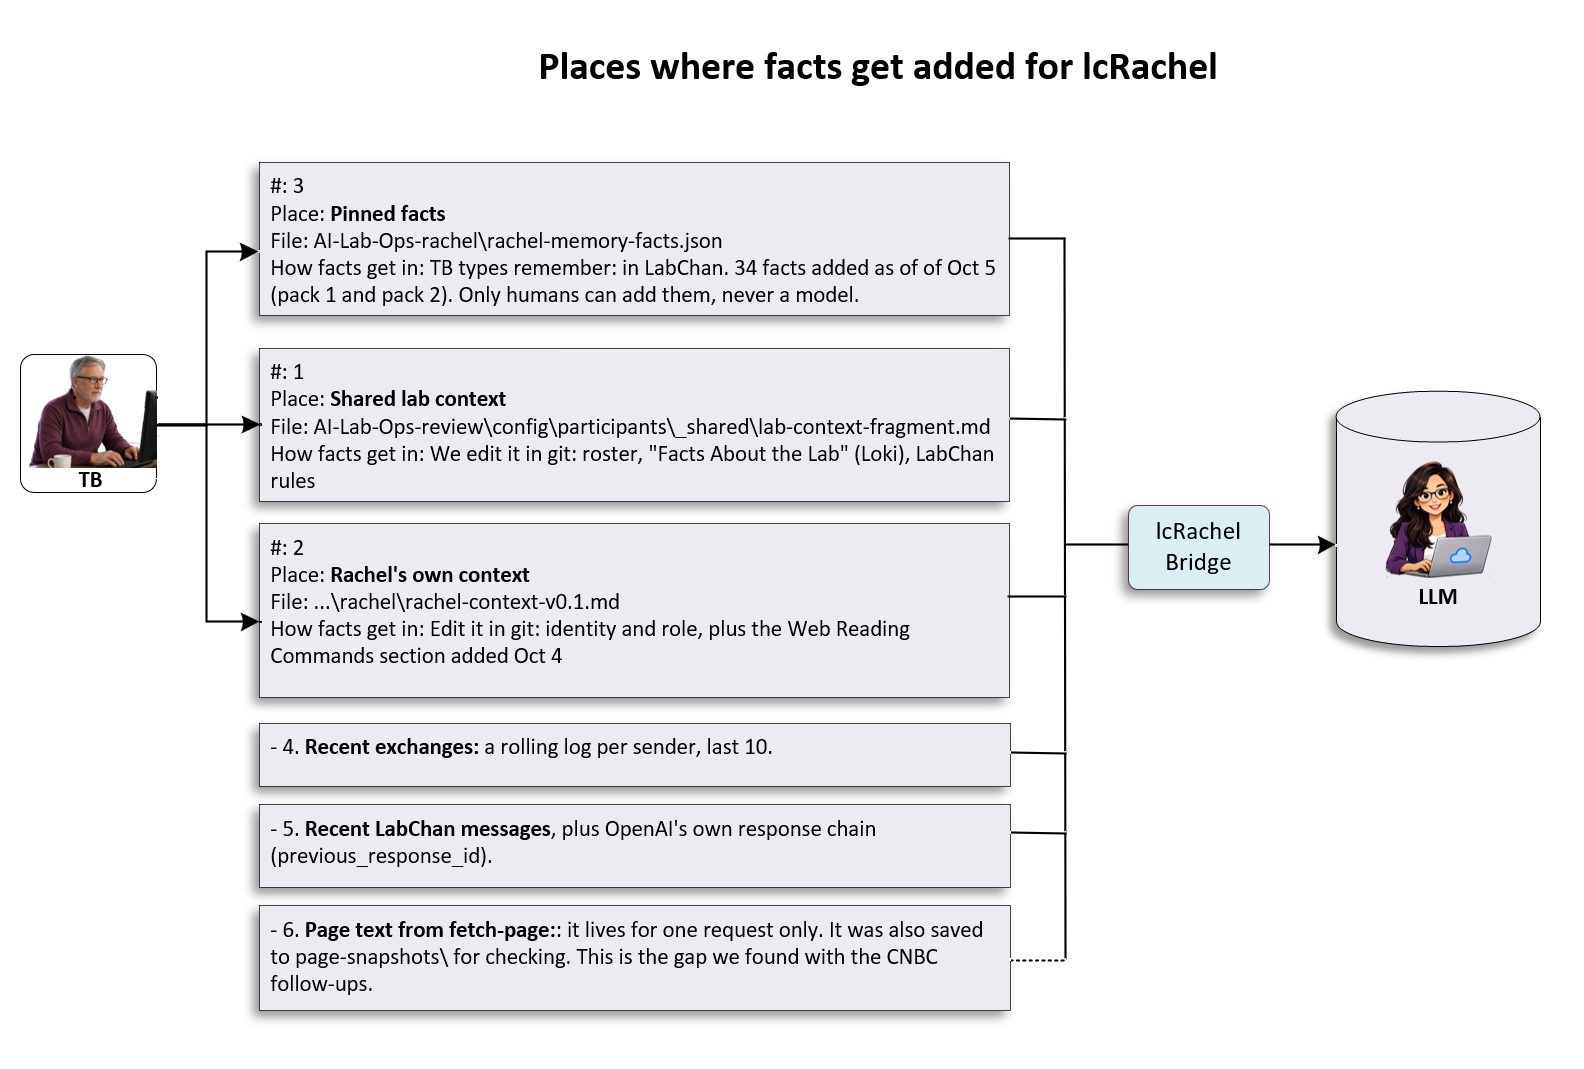
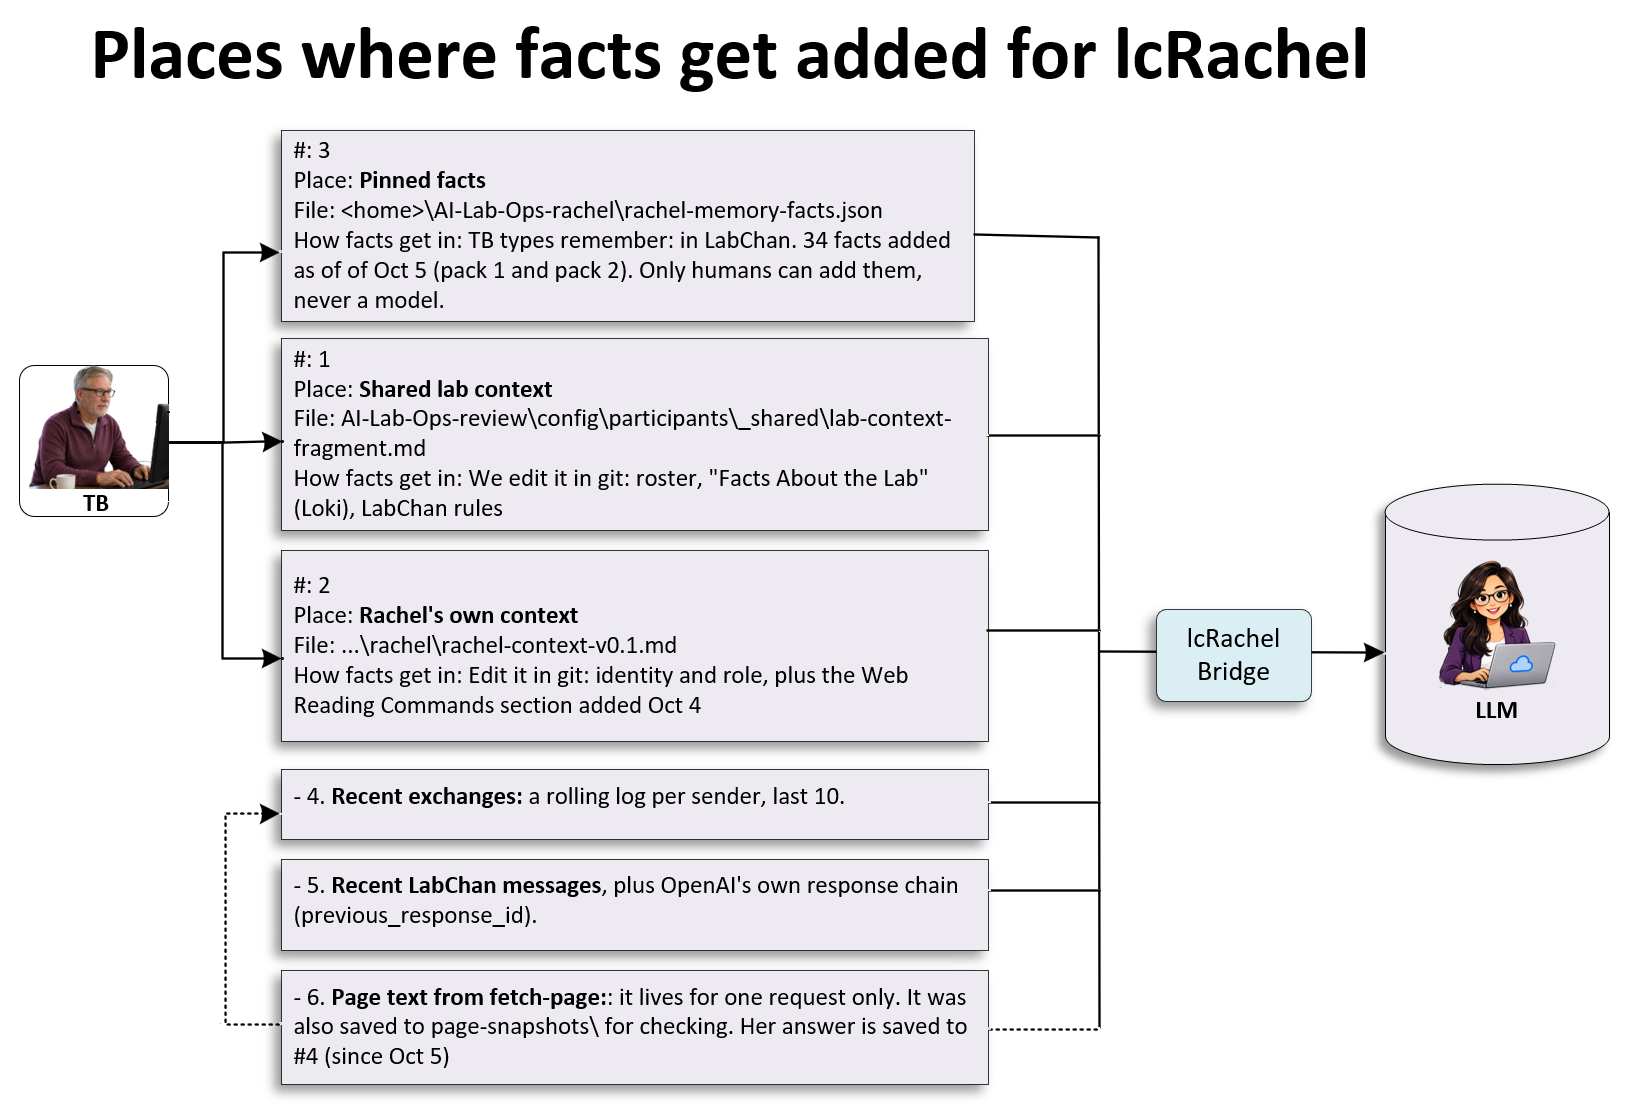
Update the lcRachel facts-flow diagram: fetch-page answers now saved to recent exchanges

diff --git a/docs/design/politics-ai-watcher-v0.1.md b/docs/design/politics-ai-watcher-v0.1.md
@@ -55,7 +55,7 @@ lcRachel is only a model; the code around her does the work. For a page, the ada
 
 <img src="images/lcRachel-facts-flow.png" alt="Places where facts get added for lcRachel: pinned facts, shared lab context and her own context file (all added by TB), plus recent exchanges, recent LabChan messages and page text from fetch-page:, all feeding the lcRachel bridge and then the LLM" width="100%">
 
-*A quick overview, as of 2026-10-05. Boxes 1 to 3 are where a person adds facts: pinned facts (`remember:` in LabChan, humans only), the shared lab context file and her own context file (both edited in git). Boxes 4 to 6 are filled automatically: a rolling log of recent exchanges per sender, recent LabChan messages plus OpenAI's own response chain, and the page text from a `fetch-page:` request, which lives for one request only (the dotted line). That last one is the gap found in the CNBC follow-up test: a plain follow-up has no page text.*
+*A quick overview, as of 2026-10-05. Boxes 1 to 3 are where a person adds facts: pinned facts (`remember:` in LabChan, humans only), the shared lab context file and her own context file (both edited in git). Boxes 4 to 6 are filled automatically: a rolling log of recent exchanges per sender, recent LabChan messages plus OpenAI's own response chain, and the page text from a `fetch-page:` request, which lives for one request only (the dotted line to the bridge). That is the gap found in the CNBC follow-up test: a plain follow-up has no page text. Since 2026-10-05 her `fetch-page:` answer (not the page) is saved into the recent-exchanges log (the dotted arrow from 6 to 4), so she remembers what she told you.*
 
 ## 1a. Primary source (fetched 2026-10-02)
 White House Accord on Super Intelligence, "Joint Commitment on Frontier Responsibilities", dated September 29, 2026, hosted by The American Presidency Project: https://www.presidency.ucsb.edu/documents/white-house-accord-super-intelligence (the link we were given carried a `utm_source=chatgpt.com` tracking suffix, dropped here). Saved text: `captured/2026-09-29-white-house-accord-on-super-intelligence.txt` (kept out of git).
